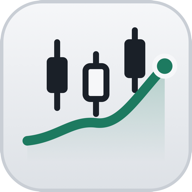
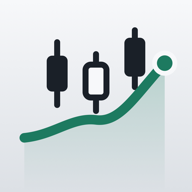
国家队持仓观察 数据至 2026-11-20（更新 2026-11-23 00:28 温哥华）

diff --git a/national-team/index.html b/national-team/index.html
@@ -144,7 +144,7 @@ details.fold>summary .eyebrow{display:block}
 
 <header class="top"><div class="wrap">
   <div class="brand">
-    <svg viewBox="0 0 64 64" aria-hidden="true"><defs><linearGradient id="ntbg" x1="0" y1="0" x2="0" y2="1"><stop offset="0" stop-color="#f6f7f9"/><stop offset="1" stop-color="#dde1e6"/></linearGradient><linearGradient id="ntar" x1="0" y1="0" x2="0" y2="1"><stop offset="0" stop-color="#1d7a60" stop-opacity=".28"/><stop offset="1" stop-color="#1d7a60" stop-opacity="0"/></linearGradient></defs><rect width="64" height="64" rx="14" fill="url(#ntbg)"/><rect x=".5" y=".5" width="63" height="63" rx="13.5" fill="none" stroke="#c9ced5"/><path d="M9 47 C19 46, 24 40, 32 41 S45 33, 55 22 L55 54 L9 54 Z" fill="url(#ntar)"/><line x1="19" y1="14" x2="19" y2="36" stroke="#1a2028" stroke-width="2" stroke-linecap="round"/><rect x="15.5" y="19" width="7" height="12" rx="1.6" fill="#1a2028"/><line x1="32" y1="18" x2="32" y2="38" stroke="#1a2028" stroke-width="2" stroke-linecap="round"/><rect x="28.5" y="22" width="7" height="11" rx="1.6" fill="#f6f7f9" stroke="#1a2028" stroke-width="2"/><line x1="45" y1="10" x2="45" y2="30" stroke="#1a2028" stroke-width="2" stroke-linecap="round"/><rect x="41.5" y="13" width="7" height="13" rx="1.6" fill="#1a2028"/><path d="M9 47 C19 46, 24 40, 32 41 S45 33, 55 22" fill="none" stroke="#1d7a60" stroke-width="3.2" stroke-linecap="round"/><circle cx="55" cy="22" r="3.4" fill="#1d7a60" stroke="#f6f7f9" stroke-width="1.6"/></svg>
+    <svg viewBox="90 90 844 860" aria-hidden="true"><defs><linearGradient id="ntbg" x1="0" y1="0" x2="0" y2="1"><stop offset="0" stop-color="#f7f8fa"/><stop offset="1" stop-color="#dce0e5"/></linearGradient><linearGradient id="ntar" x1="0" y1="0" x2="0" y2="1"><stop offset="0" stop-color="#1d7a60" stop-opacity=".26"/><stop offset="1" stop-color="#1d7a60" stop-opacity="0"/></linearGradient><filter id="ntsh" x="-10%" y="-10%" width="120%" height="125%"><feDropShadow dx="0" dy="12" stdDeviation="14" flood-color="#000" flood-opacity=".22"/></filter><clipPath id="ntclip"><rect x="100" y="100" width="824" height="824" rx="185"/></clipPath></defs><rect x="100" y="100" width="824" height="824" rx="185" fill="url(#ntbg)" filter="url(#ntsh)"/><g clip-path="url(#ntclip)"><g transform="translate(100 100) scale(12.875)"><path d="M8 46 C18 45, 24 39, 32 40 S45 32, 55 21 L55 64 L8 64 Z" fill="url(#ntar)"/><line x1="19" y1="14" x2="19" y2="35" stroke="#1a2028" stroke-width="2" stroke-linecap="round"/><rect x="15.5" y="18.5" width="7" height="12" rx="1.8" fill="#1a2028"/><line x1="32" y1="18" x2="32" y2="37" stroke="#1a2028" stroke-width="2" stroke-linecap="round"/><rect x="28.5" y="21.5" width="7" height="11" rx="1.8" fill="#f7f8fa" stroke="#1a2028" stroke-width="2"/><line x1="45" y1="10" x2="45" y2="29" stroke="#1a2028" stroke-width="2" stroke-linecap="round"/><rect x="41.5" y="12.5" width="7" height="13" rx="1.8" fill="#1a2028"/><path d="M8 46 C18 45, 24 39, 32 40 S45 32, 55 21" fill="none" stroke="#1d7a60" stroke-width="3.2" stroke-linecap="round"/><circle cx="55" cy="21" r="3.4" fill="#1d7a60" stroke="#f7f8fa" stroke-width="1.6"/></g></g><rect x="100.5" y="100.5" width="823" height="823" rx="184.5" fill="none" stroke="#000" stroke-opacity=".08"/></svg>
     <div><b>国家队持仓观察</b><small>A 股研究看板 · 纸上研究</small></div>
   </div>
   <span class="hmeta" id="hmeta">数据加载中</span>
